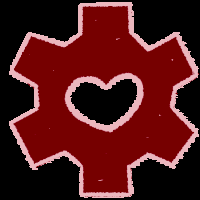
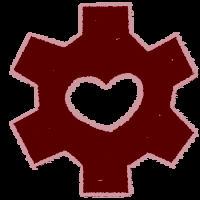
Попытки сделать кнопочки прикольными не увенчались успехом

diff --git a/Игра/1.py b/Игра/1.py
@@ -9,21 +9,26 @@ from file_with_const import size, HEIGHT, WIDTH
 class Settings(pygame.sprite.Sprite):
     def __init__(self, pos_x, pos_y):
         super().__init__(settings_spr, all_sprites)
-        self.image = pygame.transform.scale(load_image('BUTTON_settings.png'), (50, 50))
+        self.image_load = load_image('BUTTON_settings.png')
+        self.image = pygame.transform.scale(self.image_load, (50, 50))
+        self.change_img = load_image('BUTTON_settings.png')
         self.rect = self.image.get_rect().move(pos_x, pos_y)
         self.mask = pygame.mask.from_surface(self.image)
         self.is_set = False
 
     def update(self, *args):
-        if args and args[0].type == pygame.MOUSEBUTTONDOWN and \
-                self.rect.collidepoint(args[0].pos):
-            self.is_set = True
-            print(0)
-        """elif args and self.rect.collidepoint(args[0].pos):
-            self.image = pygame.transform.scale(load_image('BUTTON_settings_changes.png'), (50, 50))
-        else:
-            self.image = pygame.transform.scale(load_image('BUTTON_settings.png'), (50, 50))
-        """
+        try:
+            if args and args[0].type == pygame.MOUSEBUTTONDOWN and \
+                    self.rect.collidepoint(args[0].pos):
+                self.is_set = True
+                print(0)
+            elif args and self.rect.collidepoint(args[0].pos):
+                self.image = pygame.transform.scale(self.change_img, (50, 50))
+                print(5)
+            else:
+                self.image = pygame.transform.scale(self.image_load, (50, 50))
+        except AttributeError:
+            print('Вот где была ошибка.....')  # ладно всё равно не работает так как надо
 
     def is_s(self):
         return self.is_set
@@ -33,15 +38,24 @@ class BtnStart(pygame.sprite.Sprite):
     def __init__(self, name, pos_x, pos_y):
         super().__init__(settings_spr, all_sprites)
         self.image_load = load_image(name)
+        self.change_img = load_image(name.split('.')[0] + '_change.' + name.split('.')[1])
         self.image = pygame.transform.scale(self.image_load, (350, 250))
         self.rect = self.image.get_rect().move(pos_x, pos_y)
-        self.is_st = 0
+        self.is_st = False
 
     def update(self, *args):
-        if args and args[0].type == pygame.MOUSEBUTTONDOWN and \
-                self.rect.collidepoint(args[0].pos):
-            self.is_st += 1
-            print(1)
+        try:
+            if args and args[0].type == pygame.MOUSEBUTTONDOWN and \
+                    self.rect.collidepoint(args[0].pos):
+                self.is_st = True
+                print(0)
+            elif args and self.rect.collidepoint(args[0].pos):
+                self.image = pygame.transform.scale(self.image_load, (350, 250))
+                print(5)
+            else:
+                self.image = pygame.transform.scale(self.change_img, (350, 250))
+        except AttributeError:
+            print('Вот где была ошибка.....')
 
     def is_start(self):
         return self.is_st

diff --git a/pillow_change_brightness.py b/pillow_change_brightness.py
@@ -16,11 +16,11 @@ def box(filename, endname):
                 pixels2[i, j] = 255, sr_zn, sr_zn
             else:
                 pixels2[i, j] = int(pixels[i, j][0]) + 50, sr_zn, sr_zn
-            pixels2[i, j] = int(pixels[i, j][0]) - 20,\
-                            int(pixels[i, j][1]) - 20,\
-                            int(pixels[i, j][2]) - 20
+            pixels2[i, j] = int(pixels[i, j][0]) - 50,\
+                            int(pixels[i, j][1]) - 50,\
+                            int(pixels[i, j][2]) - 50
     endname = os.path.join('Игра', 'data', endname)
     res.save(endname)
 
 
-box('BUTTON_old_game.png', 'BUTTON_old_game_change.png')
+box('BUTTON_settings.png', 'BUTTON_settings_change.png')
